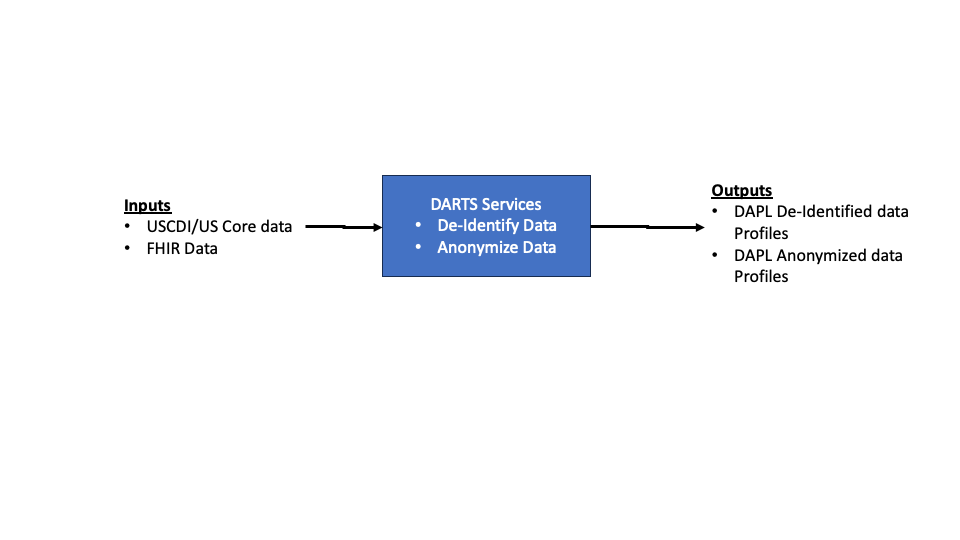
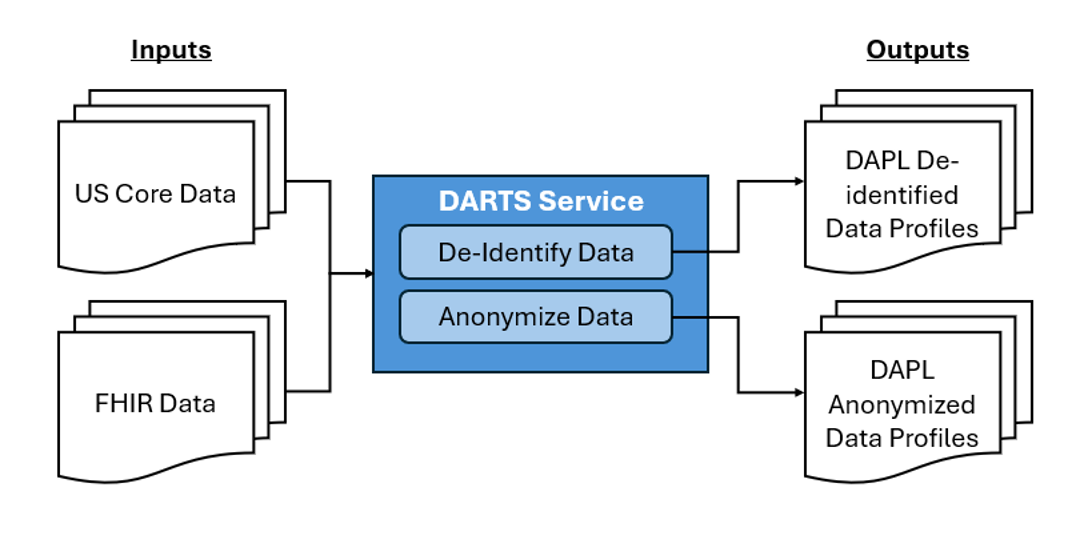
Updates based on feedback.

diff --git a/input/includes/ServiceCharacteristics.html b/input/includes/ServiceCharacteristics.html
@@ -15,7 +15,7 @@
         <td class="maptable17">Extremely Low</td>
       </tr>
       <tr style='height:20px;'>
-        <td class="maptable16">Linkability to original record</td>
+        <td class="maptable16">Ability to link to original record</td>
         <td class="maptable17">Always</td>
         <td class="maptable17">Possible if needed</td>
         <td class="maptable17">No</td>

diff --git a/input/pagecontent/usecases.md b/input/pagecontent/usecases.md
@@ -6,14 +6,14 @@ This section clarifies the basic service definitions specified in the IG and pro
 
 Pseudonymization is the process by which PII/PHI can no longer be attributed to a specific patient without the use of additional information. Pseudonymization does not remove PII/PHI but rather it translates the information into a token. Pseudonymized data is still considered PII/PHI as it can be re-identified with a mapping key.
 
-For example, Patient John Doe may be referred to as Patient_12345, which is produced by using some kind of mapping key or algorithm and can always be linked back to John Doe.
+For example, Patient John Doe may be referred to as Patient_12345, which is produced by using a mapping key or algorithm, such as a hashing algorithm and is always linked back to John Doe.
  
 
 #### De-identified data 
 
 Under the HIPAA privacy rule in 45 CFR §164.514(a), de-identified information is, “Health information that does not identify an individual and with respect to which there is no reasonable basis to believe that the information can be used to identify an individual.” 
 
-Alternately, de-identification is the process of removing or transforming identifiers so that an individual cannot be readily identified, with a very low risk of re-identification. Note that there are de-identification use cases that may require re-identification with re-identification performed in controlled circumstances; re-identification is not part of this IG. 
+Alternately, de-identification is the process of removing or transforming identifiers so that an individual cannot be readily identified, with a very low risk of re-identification. Note that there are de-identification use cases outside the scope of this IG that may require re-identification with re-identification performed in controlled circumstances; re-identification is not part of this IG. 
 
 For example, patient John Doe’s data will not include any patient identifier or name.
 
@@ -48,14 +48,14 @@ Re-identification uses a unique code assigned to the set of de-identified health
 
 #### Anonymization 
 
-Anonymization is the irreversible process of transforming data so that individuals cannot be identified by any reasonably likely means, now or in the future. In other words, data is anonymous if individuals are not identifiable, taking into account all means “reasonably likely” to be used to identify the person. 
+Anonymization is the irreversible process of transforming data so that individuals cannot be identified by any reasonably likely means, now or in the future. In other words, data is anonymous if individuals are not identifiable. Taking into account all means “reasonably likely” to be used to identify the person. 
 
 For example, John Doe, a male patient aged 56 with diabetes, would be included in an age group between 50 and 60 consisting of many individuals with diabetes who are males. Location information would be generalized from a specific address to a large geographical area such as one or more states or the entire country. Rare data points would be combined into a group such as “Other” to avoid identification.
 
 The above definitions are used to create the necessary services to transform identifiable data into de-identified or anonymized data.
 
 
-### Summary of differences between the various services
+### Summary of Differences between the Various Services
 
 The table below summarizes the differences between the above three services
 
@@ -70,32 +70,32 @@ The section identifies the business needs and specific user stories for DARTS IG
 
 **Use Case 1: Federal Agency Reporting:** 
 
-Currently there are many reporting programs across the US where health care organizations submit data to state and federal agencies in aggregate form. While these aggregate reports meet current mandates, many agencies desire to obtain more detailed line-level information instead of aggregate data. However, in many instances the federal agency may not have the authorities necessary to receive PII/PHI data and therefore requires the data to be de-identified in order to receive more granular data. The following are the examples of such reporting
+Currently there are many reporting programs across the US where health care organizations submit data to state and federal agencies in aggregate form. While these aggregate reports meet current mandates, many agencies desire to obtain more detailed line-level information instead of aggregate data. Federal and state agencies may not have the authorities necessary to receive PII/PHI data and therefore requires the data to be de-identified to receive more granular data. The following are the examples of such reporting
 
 * Reporting from Federally Qualified Health Centers (FQHCs) to Federal Agencies
 
 **Use Case 2: Clinical Research Reporting:** 
 
-There are many research programs that require researchers to track a specific disease and treatment. For example, a researcher studying diabetes outcomes will require labs, medications, approximate timelines but will not require the identity of the individual. This requires PII/PHI to be de-identified and then submitted to the researcher. 
+There are many research programs that require researchers to track specific diseases and treatments. For example, a researcher studying diabetes outcomes will require labs, medications, approximate timelines but will not require the identity of the individual. This requires PII/PHI to be de-identified and then submitted to the researcher. 
 
-**Use Case 3: AI/ML Model to predict hospital readmissions**
+**Use Case 3: AI/ML Model to Predict Hospital Readmissions**
 
-As the use of AI/ML models increase new models are being created which need data to predict outcomes such as the number of hospital readmissions expected for the month. These AI models do not require identifiable information but require the clinical encounter information and the context of these encounters which can be achieved by de-identifying the information before submitting to the AI model.
+As the use of AI/ML models increase, new models are being created which need data to predict outcomes such as the number of hospital readmissions expected for the month. These AI models do not require identifiable information but require the clinical encounter information and the context of these encounters which can be achieved by de-identifying the information before submitting to the AI model.
 
 **Use Case 4: Quality Improvement Initiatives** 
 
-Quality improvement initiatives different from clinical research programs that are measuring treatment effectiveness and patient outcomes require line level granular data without identifiable information. De-identification is necessary before submission to these quality improvement programs. 
+Quality improvement initiatives that focus on patient outcomes require line level granular data without identifiable information. De-identification is necessary before submission to these quality improvement programs. 
 
 
 #### Use Cases for Anonymization 
 
-**Use Case 1: Federal agencies publish disease Prevalence statistics:** 
+**Use Case 1: Federal agencies publish disease Prevalence Statistics:** 
 
-Federal agencies collect data from the states and perform analysis and publish common data sets such as disease prevalence statistics in open data sets that can be used by the public. This requires anonymization of the data without re-identification risk.  
+Federal agencies collect data to perform analysis and publish common data sets such as disease prevalence statistics in open data sets that can be used by the public. This requires anonymization of the data without re-identification risk.  
 
 **Use Case 2: Datasets Released to Global Researchers:** 
 
-Hospitals, aggregators and agencies may wish to release certain datasets to global researchers to enable innovations and studies. These data sets cannot have any re-identification risk and will require anonymization of the data before making the data set and releasing it to the global research community. 
+Hospitals, aggregators and agencies may wish to release certain datasets to global researchers to enable innovations and studies. These data sets cannot have any re-identification risk and will require anonymization of the data before compiling the data set and releasing it to the global research community. 
 
 **Use Case 3: Publications in Journals**
 
@@ -127,7 +127,7 @@ A DARTS Consumer is an actor who uses the services provided by the DARTS Service
 
 ### Identification Risk
 
-The risk of identification when using the services defined in this IG has to be ascertained by the health care organization releasing or providing the data based on the use case. The following are links that provide valuable industry regulations and guidance for risk assessments
+The risk of identification when using the services must be ascertained by the health care organization releasing or providing the data based on the use case. The following are links that provide valuable industry regulations and guidance for risk assessments
 
 * [HHS HIPAA De-identification Guidance](https://www.hhs.gov/hipaa/for-professionals/special-topics/de-identification/index.html) 
 * [NIST Guidance](https://www.nist.gov/itl/iad/deidentification) 

diff --git a/input/pagecontent/spec.md b/input/pagecontent/spec.md
@@ -20,14 +20,14 @@ Systems asserting conformance to this implementation guide have to implement the
 
 ##### MUST SUPPORT Definition
 
-* <span class="fhir-conformance">Systems SHALL be capable of populating data elements as specified by the profiles and data elements are returned using the specified APIs in the capability statement.</span>
+* <span class="fhir-conformance">Systems SHALL be capable of populating data elements as specified by the profiles and returning the data elements are returned using the specified APIs in the capability statement.</span>
 
 * <span class="fhir-conformance">Systems SHALL be capable of processing resource instances containing the MUST SUPPORT data elements without generating an error or causing the application to fail.</span>
 
 
 * <span class="fhir-conformance">Systems SHOULD be capable of displaying the MUST SUPPORT data elements for human use or storing it for other purposes.</span>
 
-* <span class="fhir-conformance">In situations where information on a particular data element is not present and the reason for absence is unknown, Systems SHALL NOT include the data elements in the resource instance returned from executing the API requests.</span>
+* <span class="fhir-conformance">In situations where information on a particular data element is not present and the reason for absence is unknown, Systems SHALL NOT include the data elements in the resource instance returned in response to the API requests.</span>
 
 * <span class="fhir-conformance">When accessing de-identified or anonymized data, Systems SHALL interpret missing data elements within resource instances returned from API requests as data that has been removed as part of the de-identification and anonymization process.</span>
 
@@ -65,7 +65,7 @@ This section identifies the different requirements for DARTS Service Provider th
 
 * <span class="fhir-conformance">The DARTS Service Provider SHALL remove all data elements that are not identified as "SUPPORTED" in the DAPL profile definitions.</span>
 
-**Implementation Note:** Common data elements which may have identifiable data have been explicitly mentioned in the profile with a cardinality of 0..0 which means they are not expected to be present. However other data elements which may be allowed in the resource may be included by the EHR including extensions. These additional data element and extensions that are not specified in the DAPL profiles have to be removed explicitly by the DARTS Service Provider implementation.
+**Implementation Note:** Common data elements which may have identifiable data have been explicitly mentioned in the profile with a cardinality of 0..0 which means they are not expected to be present. However, other data elements which may be allowed in the resource may be included by the EHR including extensions. These additional data element and extensions that are not specified in the DAPL profiles **MUST** be removed explicitly by the DARTS Service Provider implementation.
 
 * <span class="fhir-conformance">The DARTS Service Provider SHALL implement the de-identification requirements as per the [HHS De-identification Guidance Deterministic method](https://www.hhs.gov/sites/default/files/ocr/privacy/hipaa/understanding/coveredentities/De-identification/hhs_deid_guidance.pdf).</span>
 

diff --git a/input/pagecontent/background.md b/input/pagecontent/background.md
@@ -6,14 +6,16 @@ Currently many federal reporting use cases use aggregate data reporting because 
 
 * Federal Agency Reporting
 
+This IG defines the specifications by which organizations can de-identify and/or anonymize information which can then be used as part of data exchanges and workflows. 
+
 Read the <a href="usecases.html">Use Cases</a> section to get an idea of the various systems, actors and the data flow requirements. 
 
 ### Guiding Principles for the IG
 
 The following are the guiding principles for the DARTS IG:
 
-* Reduce EHR burden in generating the de-identified/anonymized data by providing a consistent representation of the data 
-* Align with existing standards such as HL7 Fast Healthcare Interoperability Resources (FHIR) and USCDI and regulations such as ONC 2015 Edition, 2015 Edition Cures Update and Health Data, Technology, and Interoperability (HTI-1) Final Rule while improving the timeliness and completeness of data for the specified [Use Cases](usecases.html). 
+* Reduce EHR burden in generating the de-identified and anonymized data by providing a consistent representation of the data 
+* Align with existing standards and regulations such as ONC 2015 Edition, 2015 Edition Health IT Certification Criteria, 2015 Edition Cures Update and Health Data, Technology, and Interoperability (HTI-1) Final Rule while improving the timeliness and completeness of data for the specified [Use Cases](usecases.html). 
  
 
 ### IG In-Scope Requirements
@@ -29,7 +31,7 @@ The following requirements are in-scope for the DARTS IG based on the use cases
 The following aspects are out-of-scope for the DARTS IG
 
 * Risk assessment for the services specified by the DARTS FHIR IG
-* Policies and processes followed by data submitters that allow data sharing, collecting of consent, or compliance with regulatory requirements.
+* Policies and processes followed by data submitters that allow data sharing, collecting consent, or compliance with regulatory requirements.
 * Mechanisms to identify the patients for whom the data needs to be de-identified or anonymized 
 
 ### Underlying Specifications
